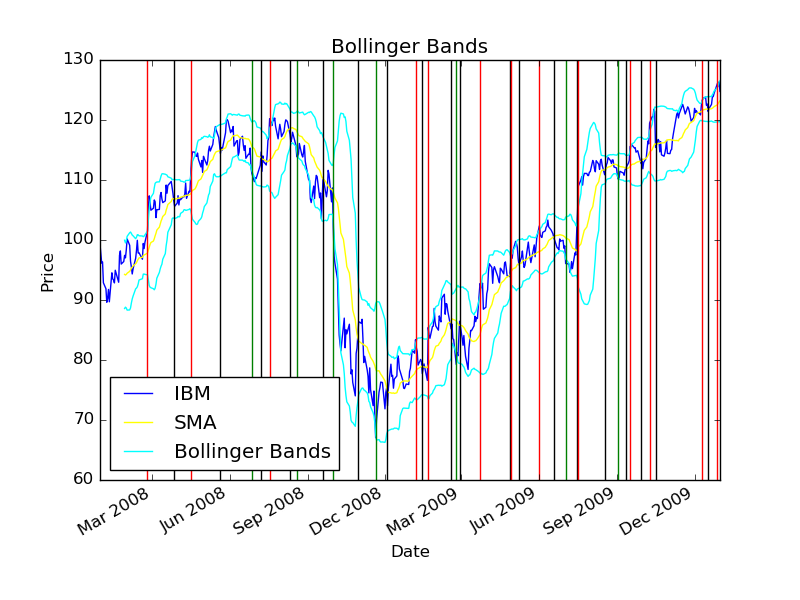
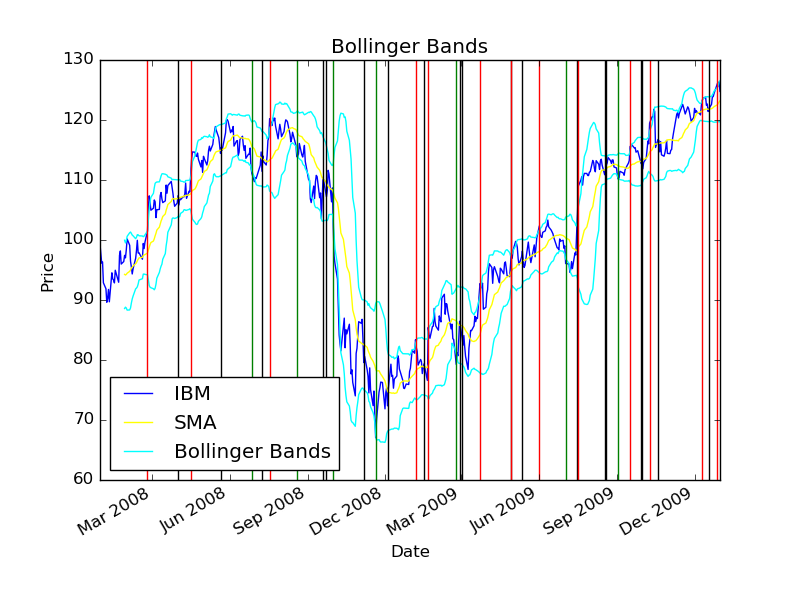
added marketsims

diff --git a/mc2_p2/bollinger_strategy.py b/mc2_p2/bollinger_strategy.py
@@ -55,34 +55,35 @@ def get_bollinger_strategy(df):
     """Returns data frame of orders"""
 
     out_orders = []
-    invested = False #indicator for deciding on exit or entry
+    invested_short = False #indicator for deciding on exit or entry
+    invested_long = False
 
     df_shift = df.shift(1)
     df_shift_2 = df.shift(2)
 
     for i in range(0, len(df)):
-        if (df.ix[i]['Price'] > df.ix[i]['upper_band']) and (invested == False) and \
+        if (df.ix[i]['Price'] > df.ix[i]['upper_band']) and (invested_short == False) and \
                 (df_shift.ix[i]['Price'] <= df_shift.ix[i]['upper_band']):
-            out_orders.append([df.index[i],'IBM', 'BUY', 'Short'])
-            invested = True
-        elif (df.ix[i]['Price'] >= df.ix[i]['SMA']) and (invested == True) and \
+            out_orders.append([df.index[i],'IBM', 'BUY', 'Short', 'SELL'])
+            invested_short = True
+        elif (df.ix[i]['Price'] > df.ix[i]['SMA']) and (invested_short == True) and \
                 (df_shift.ix[i]['Price'] <= df.ix[i]['SMA']):
-            out_orders.append([df.index[i],'IBM', 'SELL', 'Short'])
-            invested = False
-        elif (df.ix[i]['Price'] <= df.ix[i]['lower_band']) and (invested == False) and \
+            out_orders.append([df.index[i],'IBM', 'SELL', 'Short', 'BUY'])
+            invested_short = False
+        elif (df.ix[i]['Price'] < df.ix[i]['lower_band']) and (invested_long == False) and \
                 (df_shift.ix[i]['Price'] >= df_shift.ix[i]['lower_band']):
-            out_orders.append([df.index[i], 'IBM', 'BUY', 'Long'])
-            invested = True
-        elif (df.ix[i]['Price'] < df.ix[i]['SMA']) and (invested == True) and \
+            out_orders.append([df.index[i], 'IBM', 'BUY', 'Long', 'BUY'])
+            invested_long = True
+        elif (df.ix[i]['Price'] < df.ix[i]['SMA']) and (invested_long == True) and \
                 (df_shift.ix[i]['Price'] >= df_shift.ix[i]['SMA']):
-            out_orders.append([df.index[i], 'IBM', 'SELL', 'Long'])
-            invested = False
+            out_orders.append([df.index[i], 'IBM', 'SELL', 'Long', 'SELL'])
+            invested_long = False
         else:
             pass
 
     # Convert orders to data frame
     df_orders = pd.DataFrame(out_orders,
-                             columns=['Date', 'Symbol', 'BB_Strat', 'Type'])
+                             columns=['Date', 'Symbol', 'BB_Strat', 'Type', 'Order'])
     return df_orders
 
 def test_run():
@@ -135,22 +136,23 @@ def test_run():
     fig = ax.get_figure()
     fig.savefig('output/bollinger_band_strategy.png')
 
+    #prep orders for market simulator
     orders['Shares'] = 100
+    orders.set_index('Date', inplace=True)
+    orders[['Symbol', 'Order', 'Shares']].to_csv('output/baseline_orders.csv')
 
-    #prep strategy for market simulator
-    if i in range(0, len(orders)):
-        if (orders['BB_Strat'] == 'BUY') and (orders['Type'] == 'Long'):
-            orders['Order'] = 'BUY'
-        elif (orders['BB_Strat'] == 'SELL') and (orders['Type'] == 'Long'):
-            orders['Order'] = 'SELL'
-        elif (orders['BB_Strat'] == 'BUY') and (orders['Type'] == 'Short'):
-            orders['Order'] = 'SELL'
-        elif (orders['BB_Strat'] == 'SELL') and (orders['Type'] == 'Short'):
-            orders['Order'] = 'BUY'
-        else:
-            pass
+    #send order to marketsims
+    of = "./output/baseline_orders.csv"
+    sv = 10000
+    rfr = 0.0
+    sf = 252.0
 
-    orders.to_csv('output/baseline_orders.csv', index=orders['Date'])
+    # Process orders
+    portvals = compute_portvals(orders_file=of, start_val=sv)
+    if isinstance(portvals, pd.DataFrame):
+        portvals = portvals[portvals.columns[0]]# just get the first column
+    else:
+        "warning, code did not return a DataFrame"
 
 
 if __name__ == "__main__":
